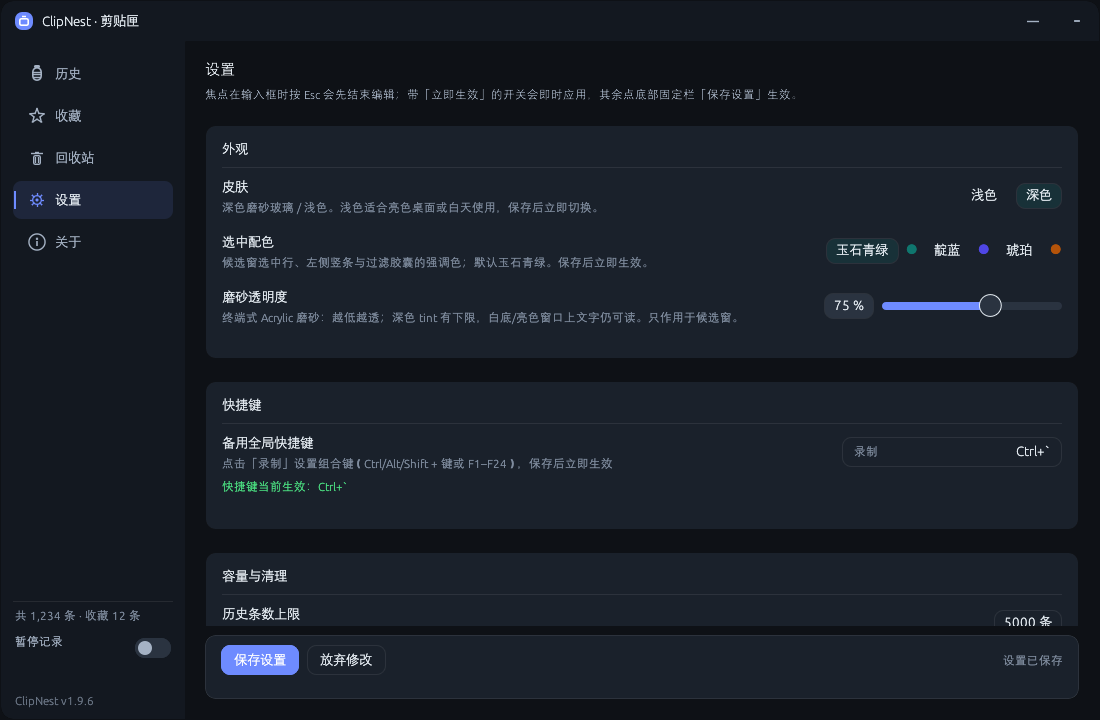
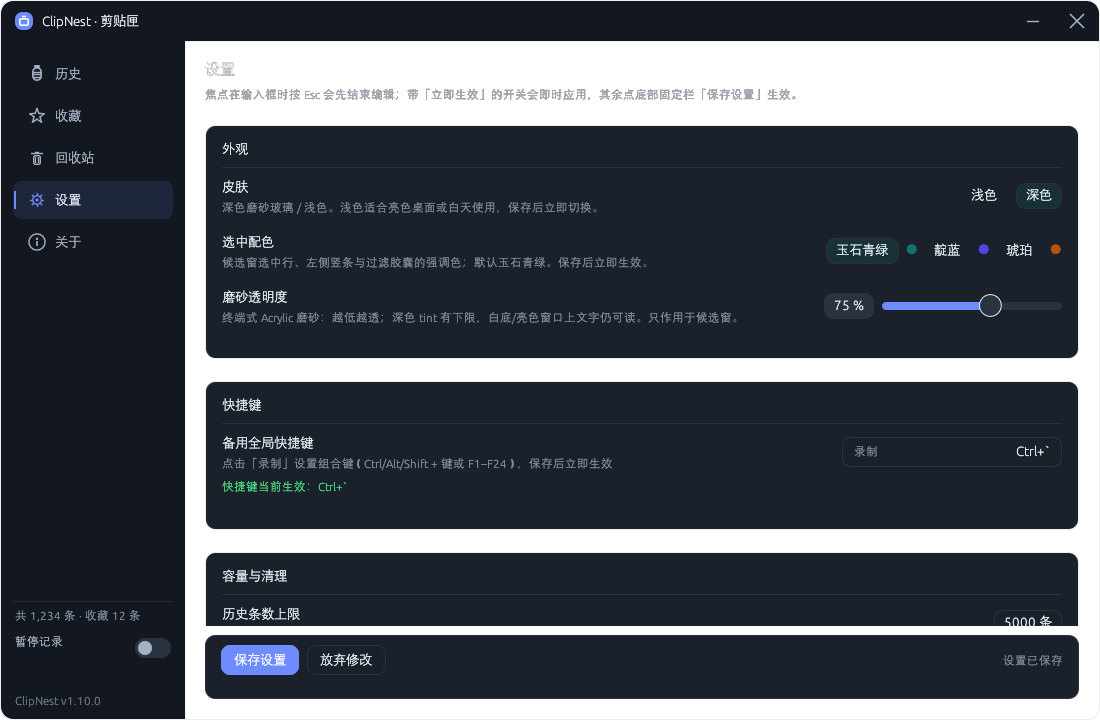
release: v1.10.0 第一批数据安全（完整备份/清理/隐私/文件副本）

diff --git a/src/ui/pages/settings.rs b/src/ui/pages/settings.rs
@@ -675,31 +675,6 @@ fn data_section(state: &mut UiState, ui: &mut egui::Ui, actions: &mut Vec<UiActi
             state.settings_draft.exit_clear_policy.description(),
         ));
         ui.add_space(14.0);
-        ui.label(theme::row_title("退出时自动清理"));
-        ui.add_space(4.0);
-        setting_row(
-            ui,
-            "退出 ClipNest 时清理历史",
-            "清理由 Store 线程完成，确认落盘后才退出进程",
-            |ui| {
-                let mut policy = state.settings_draft.exit_clear_policy;
-                egui::ComboBox::from_id_salt("exit_clear_policy")
-                    .selected_text(policy.label())
-                    .width(170.0)
-                    .show_ui(ui, |ui| {
-                        for candidate in ExitClearPolicy::ALL {
-                            ui.selectable_value(&mut policy, candidate, candidate.label());
-                        }
-                    });
-                if policy != state.settings_draft.exit_clear_policy {
-                    state.settings_draft.exit_clear_policy = policy;
-                }
-            },
-        );
-        ui.label(theme::weak(
-            state.settings_draft.exit_clear_policy.description(),
-        ));
-        ui.add_space(14.0);
         ui.label(theme::row_title("危险操作"));
         ui.add_space(6.0);
         ui.horizontal(|ui| {

diff --git a/src/diag.rs b/src/diag.rs
@@ -312,14 +312,33 @@ fn run_selftest_body(dir: &Path, check: &mut CheckFn<'_>) -> Result<(), String> 
     let _ = wait_clips_changed(&events, WAIT);
     let page_after_clear = search(&events, &tx, "", ClipFilter::All, 0, 50);
     check(
-        "清空历史",
+        "清空历史保留收藏",
         page_after_clear
+            .as_ref()
+            .map(|p| p.total == 1)
+            .unwrap_or(false),
+        format!(
+            "total={}",
+            page_after_clear.as_ref().map(|p| p.total).unwrap_or(0)
+        ),
+    );
+
+    tx.send(StoreCmd::Clear {
+        delete_blobs: true,
+        include_favorites: true,
+    })
+    .map_err(|e| e.to_string())?;
+    let _ = wait_clips_changed(&events, WAIT);
+    let page_after_clear_all = search(&events, &tx, "", ClipFilter::All, 0, 50);
+    check(
+        "清空历史含收藏",
+        page_after_clear_all
             .as_ref()
             .map(|p| p.total == 0)
             .unwrap_or(false),
         format!(
             "total={}",
-            page_after_clear.as_ref().map(|p| p.total).unwrap_or(0)
+            page_after_clear_all.as_ref().map(|p| p.total).unwrap_or(0)
         ),
     );
 

diff --git a/src/ui/preview.rs b/src/ui/preview.rs
@@ -89,7 +89,11 @@ fn maybe_save_screenshot(ctx: &egui::Context, mode: &str) {
         counter.set(next);
         next
     });
-    if frame < 6 {
+    let shot_frame = std::env::var("CLIPNEST_PREVIEW_SHOT_FRAME")
+        .ok()
+        .and_then(|value| value.parse::<u32>().ok())
+        .unwrap_or(6);
+    if frame < shot_frame {
         ctx.request_repaint_after(std::time::Duration::from_millis(80));
         return;
     }

diff --git a/README.md b/README.md
@@ -55,15 +55,19 @@ ClipNest 的目标是**低占用、键盘优先、视觉克制**：
 - **候选窗**：全局快捷键呼出；输入即搜（FTS5 trigram，中文子串友好，**命中关键字标红**）；`↑↓` 选择、`Enter` 粘贴、`Ctrl+Enter` 仅复制、`Ctrl+1…9` 快选、`Ctrl+F` 随时聚焦搜索框、`Tab` / `←→` 切过滤（收藏 → 全部 → 文本 → 图片 → 文件，默认全部）、`Ctrl+P` 收藏、`Delete` 移入回收站、`Esc` 关闭。
 - **自动粘贴**：先恢复呼出前的前台窗口，再模拟 Ctrl+V（可选 Shift+Insert）；目标窗口提权等情况自动降级为"已复制，请手动粘贴"。
 - **管理台**：历史（搜索/分页/详情/多选/批量删除/**导出（另存为）**）、收藏、**回收站**、设置、关于。
+- **完整备份 / 恢复**：设置 → 数据 → 「完整备份…」生成单个 `.cnbak` 文件，内含数据库快照、图片/缩略图、收藏文件副本与 manifest 校验和；「从备份恢复…」先预览内容与校验结果，再按内容 hash 合并导入，失败回滚且不会破坏现有数据。换机或迁移请使用完整备份；导出 JSON 仅含文本与元数据。
+- **清空与退出清理**：清空历史默认只清未收藏，勾选「同时清空收藏」需输入确认词；设置 → 数据可选退出时「不清理 / 清空未收藏 / 全部清空」，仅明确退出 ClipNest 时执行，关闭面板或隐藏到托盘不触发。含收藏的清理使用 `secure_delete` + `VACUUM`，降低已删数据在数据库文件中的残留。
+- **隐私默认值**：新装默认忽略 1Password、Bitwarden、KeePass、KeePassXC、LastPass、Dashlane、Enpass、Keeper、RoboForm 等常见密码管理器进程；条目右键/详情可「忽略来源应用」并立即生效；支持临时暂停 15 分钟 / 1 小时 / 直到重启，到期自动恢复。
 - **回收站**：手动单条/批量删除先移入回收站，保留 **2 天**，期间可恢复、彻底删除或清空；自动容量清理与「清空历史」仍是永久删除；重新复制相同内容会自动从回收站恢复。
-- **收藏与置顶**：收藏只打星，不再自动置顶；收藏页可对收藏项单独「置顶」，置顶只影响收藏列表排序，历史与候选窗保持最近使用顺序。收藏项永不自动清理；文件收藏会把实体复制进库，原文件被删也能粘贴出来。
+- **收藏与置顶**：收藏只打星，不再自动置顶；收藏页可对收藏项单独「置顶」，置顶只影响收藏列表排序，历史与候选窗保持最近使用顺序。收藏项永不自动清理；文件收藏会把实体复制进库，原文件被删也能粘贴出来；文件副本带「保存中 / 已保存 / 失败 / 超出上限 / 原文件缺失」状态，失败可重试。
 - **容量治理**：条数 / 图片总量 / 收藏文件实体总量 / 单条文本 / 单文件上限均可配置，超出按最旧非收藏淘汰；手动删除进入回收站，不参与自动淘汰。
+- **首次启动**：面板第一次显示时给出快捷键、托盘常驻与「默认不自启」提示；再次双击 exe 会提示已有实例并尝试唤起，不再静默退出。
 - **外观**：深色/浅色皮肤、**三种选中强调色**（玉石青绿 / 靛蓝 / 琥珀，设置 → 外观切换）、可调磨砂透明度（终端式 Acrylic 透明、深色 tint 有可读性下限）、顶部玻璃高光、
   常驻抓取点（候选窗 16px 拖拽条）与管理台标题栏拖动；候选窗跟随光标位置并在贴边时自动翻转。
 - **独立管理台窗口**：管理台在自己的窗口进程里打开，用快捷键呼出候选窗时**管理台保持打开**；
   管理台可关闭，主候选窗不受影响。
-- **系统集成**：托盘菜单（打开面板 / 管理历史 / 暂停记录 / 清空 / 设置 / 开机自启 / 退出）、单实例、HKCU 开机自启、暂停记录、忽略应用名单。
-- **隐私**：纯本地、零网络；密码管理器等带 `Clipboard Viewer Ignore` 标记的复制不会被记录；日志不含剪贴板全文。
+- **系统集成**：托盘菜单（打开面板 / 管理历史 / 暂停记录 / 临时暂停 / 清空 / 设置 / 开机自启 / 退出）、单实例、HKCU 开机自启、暂停记录、忽略应用名单。
+- **隐私**：纯本地、零网络；密码管理器等带 `Clipboard Viewer Ignore` 标记的复制不会被记录；新装默认跳过常见密码管理器进程；日志不含剪贴板全文。
 
 ## FAQ
 
@@ -234,12 +238,13 @@ clipnest.exe（单进程常驻）
 - 仅支持 Windows（10 1809+ / 11），暂不做跨平台；
 - 单进程常驻内存约 57MB Private（v1.2 按用户要求不再做低内存拆分）；
 - 富文本（HTML/RTF）暂不保留格式，只按纯文本处理；
-- 图片/文件导入导出暂不内嵌二进制（后续版本计划）；
+- 图片/文件在 **完整备份（.cnbak）** 中会内嵌；**导出 JSON** 仍只含文本与元数据，不含二进制；
 - v1.2 起不接管 `Win+V`，系统剪贴板历史保持 Windows 原生行为；
 - 以管理员权限运行的窗口会被 UIPI 拦截模拟按键，此时保留剪贴板内容供手动粘贴。
 
 ## 更新记录
 
+- **v1.10.0**：第一批「数据安全」更新。新增单文件**完整备份/恢复**（`.cnbak`，含数据库、图片/缩略图、收藏文件副本与 manifest 校验，恢复前预览、合并导入、失败回滚）；清空历史默认只清未收藏，含收藏需输入确认词，并支持退出时三档自动清理（安全删除）；新装默认忽略 9 个常见密码管理器，条目右键/详情可一键忽略来源应用，支持 15 分钟/1 小时/直到重启的临时暂停；收藏文件副本增加异步状态（保存中/已保存/失败/超限/原文件缺失）与重试；首次启动增加欢迎提示，二次启动提示已有实例并尝试唤起。
 - **v1.9.18**：发布版改为**静态链接 MSVC 运行库**（`target-feature=+crt-static`），单个 `clipnest.exe` 不再依赖 `VCRUNTIME140.dll`，其他 Windows 10/11 x64 电脑复制过去双击即可启动，无需安装 VC++ 运行库。
 - **v1.9.17**：候选窗新增 `Ctrl+F` 聚焦搜索框，搜索框失去焦点后也能一键回到输入；输入框右侧常驻显示 `Ctrl+F` 键帽提示（有内容时显示清除按钮）。
 - **v1.9.16**：搜索结果中的**命中关键字标红**。候选窗列表标题/预览、管理台历史与收藏列表摘要、回收站摘要，以及管理台详情标题与正文都会按当前搜索词高亮（ASCII 大小写不敏感，中文按原样匹配）；关键字为空或未命中时保持原样。

diff --git a/docs/ACCEPTANCE-RESULT.md b/docs/ACCEPTANCE-RESULT.md
@@ -790,3 +790,25 @@
 - PE 导入表解析确认无 `VCRUNTIME140.dll` / `api-ms-win-crt-*`。
 - 将 exe 单独复制到临时目录，并指定全新的 `CLIPNEST_DATA_DIR` 启动，进程保持运行；日志确认版本 `1.9.18`、数据库与目录自动创建、托盘与快捷键注册成功。
 - 构建后的 exe 约 9.4 MB，仍为单文件；`--selftest` 14 项通过。
+
+## 37. v1.10.0（2026-11-05，第一批数据安全：备份/清理/隐私/文件副本）
+
+### 用户需求
+- 针对深度痛点分析确认的第一批 A1–A5：完整备份/恢复、清空与退出清理、隐私默认值与临时暂停、收藏文件副本可靠性、首次启动可感知。
+- 约束：普通复制只记文件路径，收藏时才复制实体，避免无谓磁盘占用；退出清理只在明确退出时执行。
+
+### 实现
+- **A1 完整备份/恢复**：新增 `src/store/backup.rs`，生成单文件 `.cnbak`（zip：`VACUUM INTO` 的 `data.db` + `blobs/` + `manifest.json`）。manifest 记录格式版本、程序版本、时间、条目/图片/文件数量及逐个文件大小与 SHA-256；写入临时文件后原子替换。恢复先解压到 staging 并逐项校验，再在单事务中合并导入（按内容 hash 去重，保留时间、收藏、置顶、文件状态与来源），失败回滚并清理新建文件。设置页新增「完整备份… / 从备份恢复…」，恢复前显示预览 modal。
+- **A2 清空与退出清理**：`StoreCmd::Clear` 增加 `include_favorites`，默认只清未收藏并返回实际清理/保留数量；含收藏清空需输入「清空收藏」，并在 Store 线程执行 `secure_delete` + `VACUUM` + WAL checkpoint。`StoreCmd::ClearForExit(policy)` 在 `request_quit` 中先入队再 Shutdown/join，确保落盘后才退出；关闭面板或隐藏不触发。设置页新增「不清理 / 清空未收藏 / 全部清空」三档。
+- **A3 隐私**：`Settings` 首次缺省时注入 9 个常见密码管理器进程名（显式空数组不覆盖）；条目右键菜单与详情面板新增「忽略来源应用」，立即保存并同步主进程。新增运行期 `TempPause`（15 分钟 / 1 小时 / 直到重启），不写设置文件，托盘与设置页均可恢复，到期自动恢复。
+- **A4 文件副本状态**：`FileEntry` 增加 `copy_state`（Pending/Stored/Failed/TooLarge/Missing/NotNeeded）；收藏时异步复制并逐文件持久化状态，详情页显示徽标与「重试保存副本」。
+- **A5 首次启动**：新增 `first_run_done`，第一次真正显示面板时提示快捷键/托盘/默认不自启；第二实例检测到已有实例时弹 MessageBox 显示版本并尝试唤起，不再静默退出。
+- 两批开发基于独立 worktree；本版合并 A1 与 A2–A5，发布分支 `release/v1.10`。
+
+### 校验
+- `cargo test --release`：**182 passed / 0 failed / 1 ignored**。
+  - 新增 `tests_backup`：完整备份/恢复文本、图片、收藏文件副本；备份被篡改时校验失败且不触碰现有数据库。
+  - 新增清空范围、退出清理策略、临时暂停、忽略名单规范化、文件副本状态与重试等测试。
+- `cargo check --all-targets`：零错误。
+- 合并冲突处理：`src/store.rs` 导入、`src/ui.rs` 恢复预览/清空确认/忽略应用、`src/ui/pages/settings.rs` 数据区重复块均已人工核对。
+- 说明：完整备份/恢复与退出清理以单元测试和 Store 线程测试覆盖；原生文件对话框与首次启动提示需实际运行验证。
